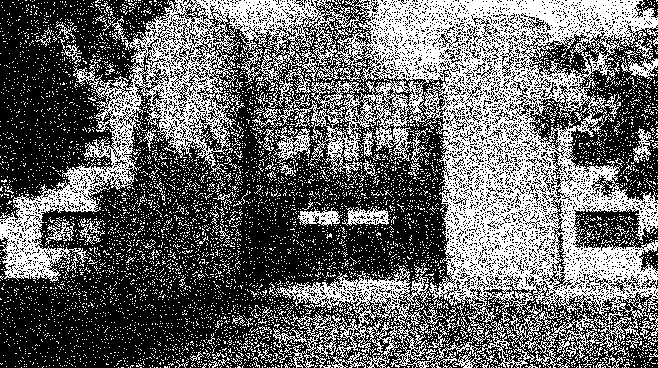
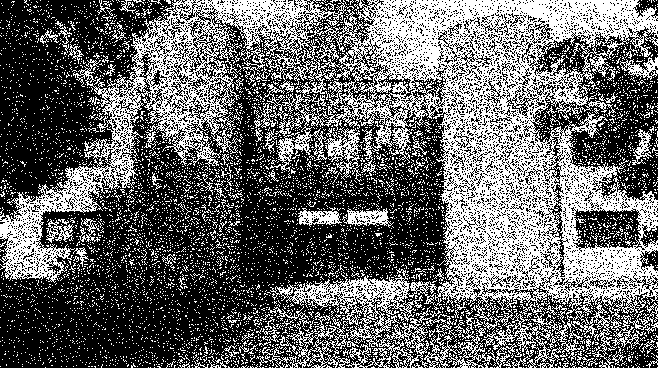
Partie 5 : Ajout de la fonctionnalité de tramage de Bayer et mise à jour du README

diff --git a/ditherpunk/src/main.rs b/ditherpunk/src/main.rs
@@ -22,7 +22,8 @@ struct DitherArgs {
 #[argh(subcommand)]
 enum Mode {
     Seuil(OptsSeuil),
-    Palette(OptsPalette)
+    Palette(OptsPalette),
+    Bayer(OptsBayer)
 }
 
 #[derive(Debug, Clone, PartialEq, FromArgs)]
@@ -50,6 +51,15 @@ struct OptsPalette {
     /// le nombre de couleurs à utiliser, dans la liste [NOIR, BLANC, ROUGE, VERT, BLEU, JAUNE, CYAN, MAGENTA]
     #[argh(option)]
     n_couleurs: usize
+}
+
+#[derive(Debug, Clone, PartialEq, FromArgs)]
+#[argh(subcommand, name="bayer")]
+/// Rendu de l’image par tramage ordonné de Bayer.
+struct OptsBayer {
+    /// ordre de la matrice de Bayer
+    #[argh(option)]
+    ordre: u32
 }
 
 const WHITE: image::Rgb<u8> = image::Rgb([255, 255, 255]);
@@ -143,6 +153,47 @@ fn tramage_aleatoire(rgb_image: &mut image::RgbImage) {
         .unwrap();
 }
 
+fn genere_matrice_bayer(ordre: u32) -> Vec<Vec<u32>> {
+    if ordre == 0 {
+        return vec![vec![0]];
+    }
+
+    let matrice_prec = genere_matrice_bayer(ordre - 1);
+    let size = matrice_prec.len();
+    let new_size = size * 2;
+    let mut matrice = vec![vec![0; new_size]; new_size];
+
+    for i in 0..size {
+        for j in 0..size {
+            let base_value = matrice_prec[i][j];
+            matrice[i][j] = base_value * 4;
+            matrice[i + size][j] = base_value * 4 + 2;
+            matrice[i][j + size] = base_value * 4 + 3;
+            matrice[i + size][j + size] = base_value * 4 + 1;
+        }
+    }
+
+    matrice
+}
+
+fn apply_matrice_bayer(rgb_image: &mut image::RgbImage, ordre: u32) {
+    let matrice = genere_matrice_bayer(ordre);
+    let size = matrice.len() as u32;
+    for (x, y, pixel) in rgb_image.enumerate_pixels_mut() {
+        let i = x % size;
+        let j = y % size;
+        let seuil = matrice[i as usize][j as usize] * 255 / (size * size);
+        if get_luminance(pixel) > seuil as f32 {
+            *pixel = WHITE;
+        } else {
+            *pixel = BLACK;
+        }
+    }
+    rgb_image
+        .save_with_format("./output/output_tramage_bayer.png", image::ImageFormat::Png)
+        .unwrap();
+}
+
 fn main() -> Result<(), ImageError> {
     let args: DitherArgs = argh::from_env();
     let path_in = args.input;
@@ -168,10 +219,10 @@ fn main() -> Result<(), ImageError> {
         );
     }
 
-    //on boucle sur chaque pixel de l'image
     white_pixel_1_out_of_2(&mut rgb_image.clone());
 
-    //on sauvegarde l'image modifiée
+    tramage_aleatoire(&mut rgb_image.clone());
+
     rgb_image.save_with_format("./output/output.png", image::ImageFormat::Png)?;
 
     match args.mode {
@@ -210,7 +261,7 @@ fn main() -> Result<(), ImageError> {
             apply_threshold_seuillage(&mut rgb_image.clone(), couleur1, couleur2);
         }
         Mode::Palette(opts) => {
-            if (opts.n_couleurs == 0) {
+            if opts.n_couleurs == 0 {
                 println!("Le nombre de couleurs doit être supérieur à 0.");
                 return Ok(());
             }
@@ -218,9 +269,10 @@ fn main() -> Result<(), ImageError> {
             let palette: Vec<image::Rgb<u8>> = vec![BLACK, WHITE, RED, GREEN, BLUE, YELLOW, CYAN, MAGENTA];
             apply_distance_eucli(&mut rgb_image.clone(), palette[..opts.n_couleurs].to_vec());
         }
+        Mode::Bayer(opts) => {
+            apply_matrice_bayer(&mut rgb_image.clone(), opts.ordre);
+        }
     }
-
-    tramage_aleatoire(&mut rgb_image.clone());
 
     Ok(())
 }

diff --git a/README.md b/README.md
@@ -105,6 +105,10 @@ cargo run ./img/image_iut.jpg -- palette --n-couleurs 8
 Nous obtenons le résultat suivant : ![image_palette](./ditherpunk/output/output_palette.png)
 
 ## Question 11
+
+Si la palette est vide, le programme envoie un message indiquant que la palette ne doit pas être vide et ne fait rien
+
+## Question 12
 *Implémenter le tramage aléatoire des images*
 
 Nous avons implémenter le tramage aléatoire de la manière suivante :
@@ -125,3 +129,16 @@ fn tramage_aleatoire(rgb_image: &mut image::RgbImage) {
         .unwrap();
 }
 ```
+
+## Question 14
+*Quel type de données utiliser pour représenter la matrice de Bayer?*
+
+Pour représenter la matrice de Bayer on peut utiliser un vecteur de vecteur d'entier.
+```rust
+Vec<Vec<u32>>
+```
+
+## Question 15
+
+Avec la commande suivante, `cargo run ./img/image_iut.jpg -- bayer --ordre 4`, nous obtenons le résultat suivant :
+![image_bayer](./ditherpunk/output/output_tramage_bayer.png)
